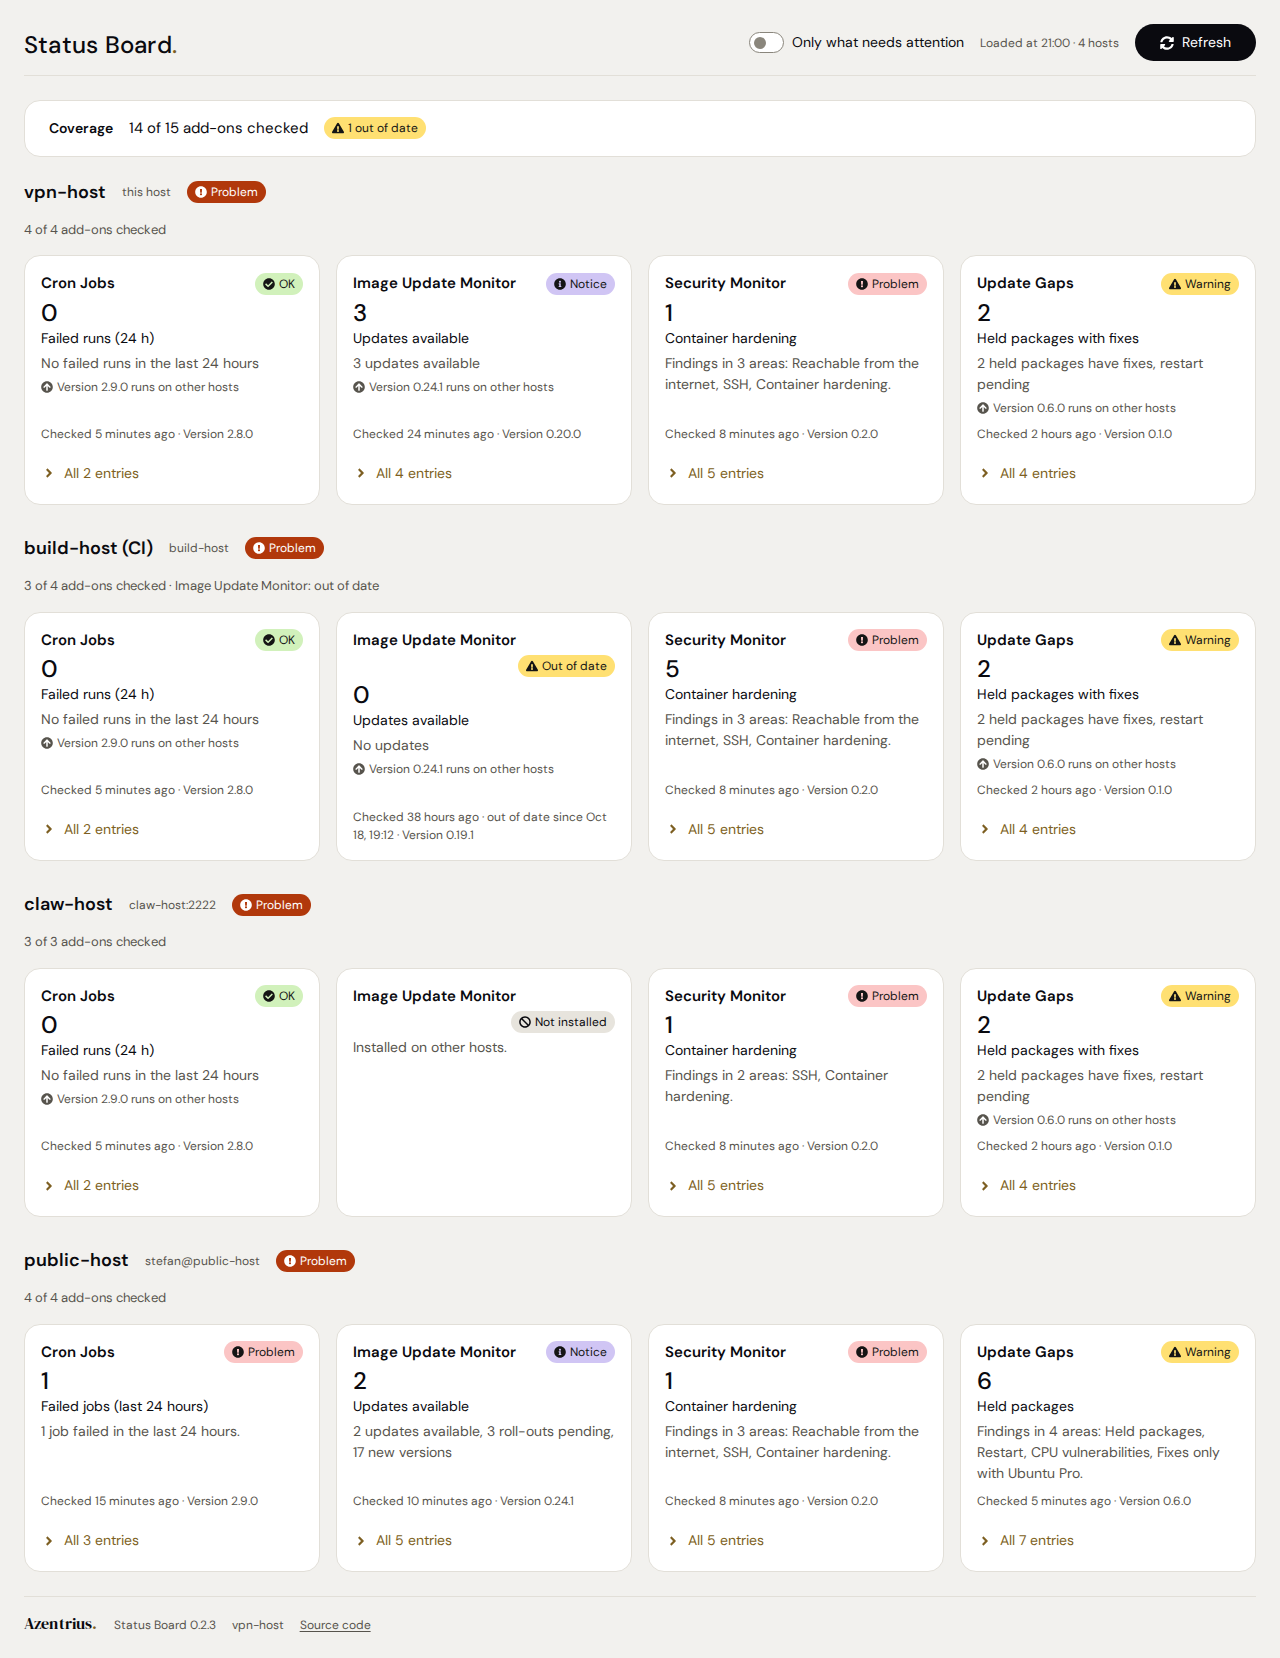
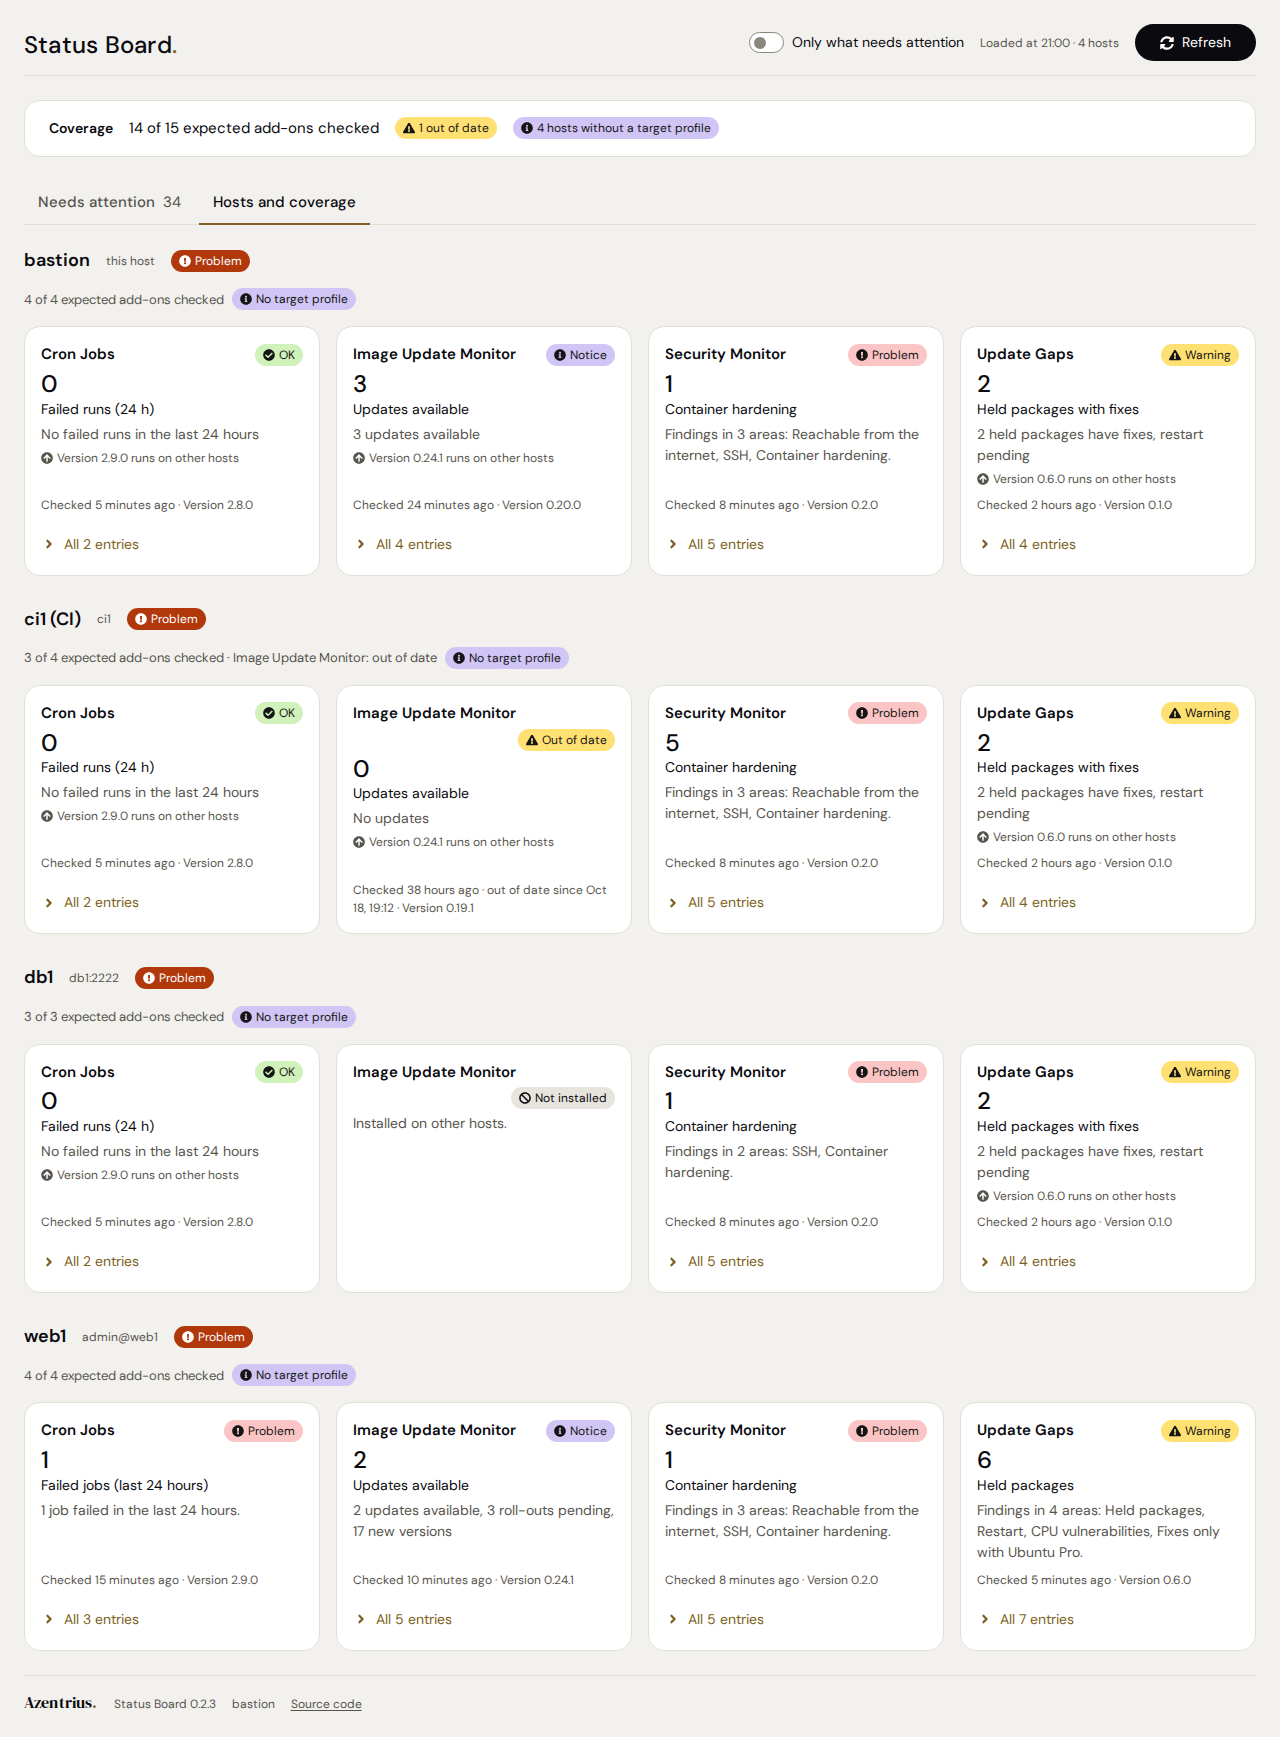
Take the README screenshots with neutral host names (#25)
The README's screenshots came from the scenario `real`, whose machines
and recorded answers carry the names of real servers: host names, the
bastion's label, a user in the connection, container and job names, a
user's key path.

- **New scenarios `demo` and `demo-tasks`** in
`test/web/mock-cockpit.js`: the answers of `real` and `tasks`, with a
fixed table of neutral names for the hosts (`web1`, `ci1`, `db1`,
`bastion`), the user (`admin`) and what runs on them. The manifests stay
untouched.
- **`test/ui_test.py`:** the README screenshots, dark and phone views
come from `demo`; `readme-tasks` from `demo-tasks`. Every check against
`real` and `tasks` stays. The demo pages are checked against the text of
`real` after the renaming, and with all panels open none of the recorded
names may appear.
- **README:** says where the screenshots come from, and lists the new
scenarios.

The pictures in `docs/img/` follow in a second commit, from the
`screenshots` artifact of this pull request's CI run.

diff --git a/test/web/mock-cockpit.js b/test/web/mock-cockpit.js
@@ -6,10 +6,13 @@
  * test/serve.py): the manifests, and the output of each add-on's status verb, the German one
  * when there is a .de.json and the page asks with --lang de.
  *
- * Query parameters: scenario=default|real|tasks|edge|hostile|broken|empty, chunk (characters per streamed chunk), badhosts=1 (the invalid names of the
- * machines fixture stay in the list), delay (ms per answer). Tests change window.__mock at run
- * time and read what the page did from it: calls, jumps, watches, unexpected, locations (every
- * cockpit.location.go()). The page's location is its hash (#/hosts), as in Cockpit. */
+ * Query parameters: scenario=default|real|demo|tasks|demo-tasks|edge|hostile|broken|empty, chunk
+ * (characters per streamed chunk), badhosts=1 (the invalid names of the machines fixture stay in
+ * the list), delay (ms per answer). demo and demo-tasks are real and tasks with neutral names
+ * (NEUTRAL) instead of the recorded ones: the README's screenshots. Tests change window.__mock at
+ * run time and read what the page did from it: calls, jumps, watches, unexpected, locations (every
+ * cockpit.location.go()); names says what the scenario replaces. The page's location is its hash
+ * (#/hosts), as in Cockpit. */
 (function () {
     "use strict";
     const params = new URLSearchParams(location.search);
@@ -37,6 +40,30 @@
         const m = JSON.parse(fixture("machines/99-webui.json"));
         if (params.get("badhosts") !== "1") Object.keys(m).filter(k => k.startsWith("bad")).forEach(k => delete m[k]);
         return m;
+    }
+
+    /* The scenarios demo and demo-tasks put these names, in this order, in place of the names of
+       real hosts in the recordings: the hosts, the user, and the jobs, containers and services on
+       them. Plain replacements of text; none of them touches a key of the status contract, a
+       manifest (the Image Update Monitor's command keeps diun-update.py) or a fixture's name. */
+    const NEUTRAL = [
+        ["public-host", "web1"], ["docker-host", "web1"], ["build-host", "ci1"], ["claw-host", "db1"],
+        ["vpn-host", "bastion"], ["stefan", "admin"],
+        ["backup-db-7c1e", "nightly-backup"], ["ollama", "search"], ["prod-mcp-1", "prod-api-1"],
+        ["docuseal", "shop"], ["glitchtip", "tracker"], ["plausible_db", "stats_db"], ["actual-ai", "cache"],
+        ["actual_server", "app_server"], ["calcom-db", "calendar-db"], ["21115/tcp relay-id", "8443/tcp https-alt"],
+    ];
+    const rename = (names, text) => names.reduce((t, [from, to]) => t.split(from).join(to), text);
+
+    /* A scenario with the neutral names in the switcher's list (keys, addresses, users, labels), in
+       the connections and in the host names; the answers follow through M.rewrite. */
+    function neutral(s) {
+        const hosts = {};
+        Object.keys(s.hosts).forEach(k => {
+            const h = s.hosts[k];
+            hosts[rename(NEUTRAL, k)] = h.hostname === undefined ? h : Object.assign({}, h, { hostname: rename(NEUTRAL, h.hostname) });
+        });
+        return { machines: JSON.parse(rename(NEUTRAL, JSON.stringify(s.machines))), hosts, names: NEUTRAL };
     }
 
     const SCENARIOS = {
@@ -71,7 +98,7 @@
         }),
         /* The four add-ons with the answers they give (status/real-*.json): all four on public-host,
            the Security Monitor on its recordings of the other hosts, the rest from the good
-           fixtures; the README's screenshots. */
+           fixtures. */
         real: () => {
             const machines = machinesFixture();
             delete machines["old-host"];
@@ -108,6 +135,9 @@
                 },
             };
         },
+        /* real and tasks with neutral names (NEUTRAL): the README's screenshots. */
+        demo: () => neutral(SCENARIOS.real()),
+        "demo-tasks": () => neutral(SCENARIOS.tasks()),
         /* The optional parts of the contract next to answers without them, for the tab "Needs
            attention": Security Monitor and Update Gaps with checks and findings (two ports
            reachable from the internet, a check done in part, an acceptance that runs and one that
@@ -233,6 +263,10 @@
         watches: [],
         unexpected: [],
         locations: [],
+        /* [recorded, neutral] names the scenario replaces (demo, demo-tasks), in every answer from
+           the fixtures and in the bridge's message for a locked key */
+        names: scenario.names || [],
+        rewrite: text => rename(M.names, text),
         dbusOpen: 0,
         listeners: [],
         locationListeners: [],
@@ -256,7 +290,7 @@
     /* What the bridge sends when it cannot reach a host (src/cockpit/remote.py). */
     function closeOf(reach) {
         switch (reach) {
-        case "locked": return { problem: "authentication-failed", error: "locked identity: /home/stefan/.ssh/id_ed25519",
+        case "locked": return { problem: "authentication-failed", error: M.rewrite("locked identity: /home/stefan/.ssh/id_ed25519"),
                                 "auth-method-results": { publickey: "not-provided" } };
         case "no-host": return { problem: "no-host", message: "[Errno -2] Name or service not known" };
         default: return { problem: reach };
@@ -273,7 +307,7 @@
     function answer(status, lang, name) {
         if (typeof status === "string") {
             const de = "status/" + status + "." + lang + ".json";
-            return Object.prototype.hasOwnProperty.call(FIX, de) ? FIX[de] : fixture("status/" + status + ".json");
+            return M.rewrite(Object.prototype.hasOwnProperty.call(FIX, de) ? FIX[de] : fixture("status/" + status + ".json"));
         }
         if (!status) throw fail({ problem: "not-found", message: "" });
         if (status.text !== undefined) return status.text;

diff --git a/test/ui_test.py b/test/ui_test.py
@@ -119,6 +119,27 @@ def no_problems(page, what):
     check(not page.problems, "no console problems (" + what + "): " + repr(page.problems))
 
 
+def renamed(page, value):
+    """value (a text, or what JSON carries) with the neutral names of the page's scenario (demo,
+    demo-tasks: NEUTRAL in test/web/mock-cockpit.js) in place of the recorded ones."""
+    text = value if isinstance(value, str) else json.dumps(value)
+    for recorded, neutral in mock(page, "names"):
+        text = text.replace(recorded, neutral)
+    return text if isinstance(value, str) else json.loads(text)
+
+
+def recorded_names(page):
+    """The recorded names that the page's scenario replaces and that are still in its document."""
+    html = page.content()
+    return [recorded for recorded, _ in mock(page, "names") if recorded in html]
+
+
+def first_difference(a, b):
+    """Where two texts part, with a little of each from there."""
+    i = next((n for n, (x, y) in enumerate(zip(a, b)) if x != y), min(len(a), len(b)))
+    return repr(a[max(0, i - 40):i + 60]) + " instead of " + repr(b[max(0, i - 40):i + 60])
+
+
 def labels_right(page):
     """The tiles whose label does not stand at the right edge of the tile's head."""
     return page.evaluate("""() => Array.from(document.querySelectorAll('.sb-tile__head')).filter(hd => {
@@ -570,7 +591,7 @@ with sync_playwright() as p:
     check(page.inner_text("#refresh").strip() == "Refresh", "other languages fall back to English")
     page.context.close()
 
-    # ---------- the add-ons' real answers, in English: the README's screenshots ----------
+    # ---------- the add-ons' real answers, in English (the README's screenshots: scenario demo, below) ----------
     page = open_page(browser, "scenario=real&lang=en")
     check(rows(page) == ["localhost", "build-host", "claw-host", "public-host"], "the real scenario's hosts: " + repr(rows(page)))
     order = page.evaluate("""() => Array.from(document.querySelectorAll('.sb-host')).map(s =>
@@ -602,7 +623,7 @@ with sync_playwright() as p:
           "older add-ons say which version runs elsewhere, the newest and the Security Monitor (0.2.0 everywhere) say nothing: " + repr(hints))
     check(page.inner_text('[data-key="public-host/security"] .sb-tile__meta') == "Checked 8 minutes ago · Version 0.2.0",
           "the version in the tile's facts: " + page.inner_text('[data-key="public-host/security"] .sb-tile__meta'))
-    shot(page, "readme-board")
+    board_text = page.inner_text("body")
     tile(page, "public-host/security").click()
     check(mock(page, "jumps")[-1] == ["/security#/containers", "public-host"],
           "a click opens the Security Monitor at its key item: " + json.dumps(mock(page, "jumps")))
@@ -694,7 +715,7 @@ with sync_playwright() as p:
           "the coverage stays with the switch, of the board and of every host: " + repr(cov))
     check(host_label(page, "claw-host") == [LABEL["danger"] + " az-label--strong", "Problem"], "the row's label still says the whole row")
     check(len(entries(key)) == 5, "an open tile stays open with the switch")
-    shot(page, "readme-board-details")
+    details_text = page.inner_text("body")
     no_problems(page, "real")
     # the browser keeps the choice: a new page of the same session starts with it
     again = page.context.new_page()
@@ -719,13 +740,41 @@ with sync_playwright() as p:
     check(note == [0, "Nichts Auffälliges."], "a host with nothing that needs attention says so: " + repr(note))
     check(host_label(page, "localhost") == [LABEL["ok"] + " az-label--strong", "In Ordnung"], "and its label still says OK")
     page.context.close()
-    page = open_page(browser, "scenario=real&lang=en", dark=True)
-    shot(page, "readme-board-dark")
-    no_problems(page, "real, dark")
+
+    # ---------- the same answers with neutral names (scenario demo): the README's screenshots ----------
+    page = open_page(browser, "scenario=demo&lang=en")
+    heads = page.evaluate("""() => Array.from(document.querySelectorAll('.sb-host__header')).map(h =>
+        [h.closest('.sb-host').dataset.host, h.querySelector('h2').innerText, (h.querySelector('.az-meta') || {}).innerText || null])""")
+    check(heads == [["localhost", "bastion", "this host"], ["ci1", "ci1 (CI)", "ci1"], ["db1", "db1", "db1:2222"], ["web1", "web1", "admin@web1"]],
+          "demo: neutral names for the hosts, their labels and connections: " + repr(heads))
+    text = page.inner_text("body")
+    check(text == renamed(page, board_text), "demo shows what real shows, with the neutral names: " + first_difference(text, renamed(page, board_text)))
+    shot(page, "readme-board")
+    toggle("web1/security").click()
+    page.click(".az-switch")
+    page.wait_for_timeout(50)
+    text = page.inner_text("body")
+    check(text == renamed(page, details_text), "and so it does with only what needs attention and the entries of the Security Monitor: "
+          + first_difference(text, renamed(page, details_text)))
+    shot(page, "readme-board-details")
+    page.click(".az-switch")
+    page.wait_for_timeout(50)
+    for _ in range(16):    # the entries of every tile that has more than one
+        closed = page.locator('.sb-tile__toggle[aria-expanded="false"]')
+        if not closed.count():
+            break
+        closed.first.click()
+    check(page.evaluate("() => document.querySelectorAll('.sb-panel').length") == 14 and recorded_names(page) == [],
+          "no recorded name of a host, user, job, container or service anywhere, with every entry folded out: " + repr(recorded_names(page)))
+    no_problems(page, "demo")
     page.context.close()
-    page = open_page(browser, "scenario=real&lang=en", width=390, height=844)
+    page = open_page(browser, "scenario=demo&lang=en", dark=True)
+    shot(page, "readme-board-dark")
+    no_problems(page, "demo, dark")
+    page.context.close()
+    page = open_page(browser, "scenario=demo&lang=en", width=390, height=844)
     shot(page, "readme-board-phone", full=False)
-    no_problems(page, "real, phone")
+    no_problems(page, "demo, phone")
     page.context.close()
 
     # ---------- Needs attention: the tasks over all hosts (scenario tasks: checks, findings, profile) ----------
@@ -953,7 +1002,7 @@ with sync_playwright() as p:
     page.click('[data-fold="notapplicable"] .sb-fold__toggle')
     check(folds(page)[1]["head"] == ["Check", "Host", "Add-on", "Reason", "Set by"] and
           [r[4] for r in folds(page)[1]["rows"]] == ["Add-on", "Target profile"], "who left a check out, in English: " + repr(folds(page)[1]))
-    shot(page, "readme-tasks")
+    tasks_en, folds_en = tasks(page), folds(page)   # the same with neutral names: scenario demo-tasks, below
     page.click("#tab-hosts")
     line = page.inner_text('[data-host="public-host"] .sb-host__coverage .sb-host__figure')
     check(line == "4 of 5 expected add-ons checked · Security Monitor: Container hardening partly checked", "the host's line in English: " + line)
@@ -962,6 +1011,19 @@ with sync_playwright() as p:
     check("Missing" in tile_text(page, "localhost/security") and "although its profile expects it" in tile_text(page, "localhost/security"),
           "a missing add-on's tile in English: " + tile_text(page, "localhost/security"))
     no_problems(page, "tasks, English")
+    page.context.close()
+
+    # the same with neutral names (scenario demo-tasks): the README's screenshot of the tasks
+    page = open_page(browser, "scenario=demo-tasks&lang=en", tab=None)
+    page.click('[data-fold="accepted"] .sb-fold__toggle')
+    page.click('[data-fold="notapplicable"] .sb-fold__toggle')
+    got = tasks(page)
+    check(got == renamed(page, tasks_en) and folds(page) == renamed(page, folds_en) and recorded_names(page) == []
+          and next((x["sub"] for x in got if x["key"] == "locked-host/locked"), None) == "/home/admin/.ssh/id_ed25519",
+          "demo-tasks shows the tasks of the scenario tasks with neutral names, and no recorded name: "
+          + repr([[x["key"], x["where"], x["sub"]] for x in got]) + " " + repr(recorded_names(page)))
+    shot(page, "readme-tasks")
+    no_problems(page, "demo-tasks")
     page.context.close()
 
     # dark, and on a phone

diff --git a/README.md b/README.md
@@ -101,10 +101,11 @@ A tile in OK means that the add-on found nothing in what it checks, not that the
 | ![The same board in Cockpit's dark style](docs/img/board-dark.png) | ![The board on a phone](docs/img/board-phone.png) |
 |---|---|
 
-The screenshots come from the browser tests (`test/ui_test.py`, scenario `real`): the answers that
+The screenshots come from the browser tests (`test/ui_test.py`, scenario `demo`): the answers that
 Cron Jobs 2.9.0, Image Update Monitor 0.24.1, Update Gaps 0.6.0 and Security Monitor 0.2.0 give
-on their own test data. Each test run keeps them as `readme-board*.png` in the artifact
-`screenshots`.
+on their own test data (scenario `real`), with neutral names for the hosts, the user and what runs
+on them in place of the recorded ones. Each test run keeps them as `readme-board*.png` in the
+artifact `screenshots`.
 
 ## How it works
 
@@ -270,9 +271,9 @@ make packages     # dist/*.deb and dist/*.rpm (needs dpkg-deb and rpmbuild), rep
 ```
 
 `python3 test/serve.py` serves the page with the stand-in at
-`http://127.0.0.1:8773/pkg/status-board/index.html` (`?scenario=real`, `tasks`, `edge`, `hostile`, `broken`
-or `empty`, `?lang=en`). The fixtures in `test/fixtures` are written for 2026-10-19 19:00 UTC; the browser
-tests set their clock to it. The shared design files in `src/` are byte-identical copies from
+`http://127.0.0.1:8773/pkg/status-board/index.html` (`?scenario=real`, `demo`, `tasks`, `demo-tasks`,
+`edge`, `hostile`, `broken` or `empty`, `?lang=en`). The fixtures in `test/fixtures` are written for
+2026-10-19 19:00 UTC; the browser tests set their clock to it. The shared design files in `src/` are byte-identical copies from
 Cron Jobs (`tools/design-files.sha256`); never change them here.
 
 **End-to-end test.** CI runs `test/e2e_cockpit.py` as the job `e2e`, against a real Cockpit from
